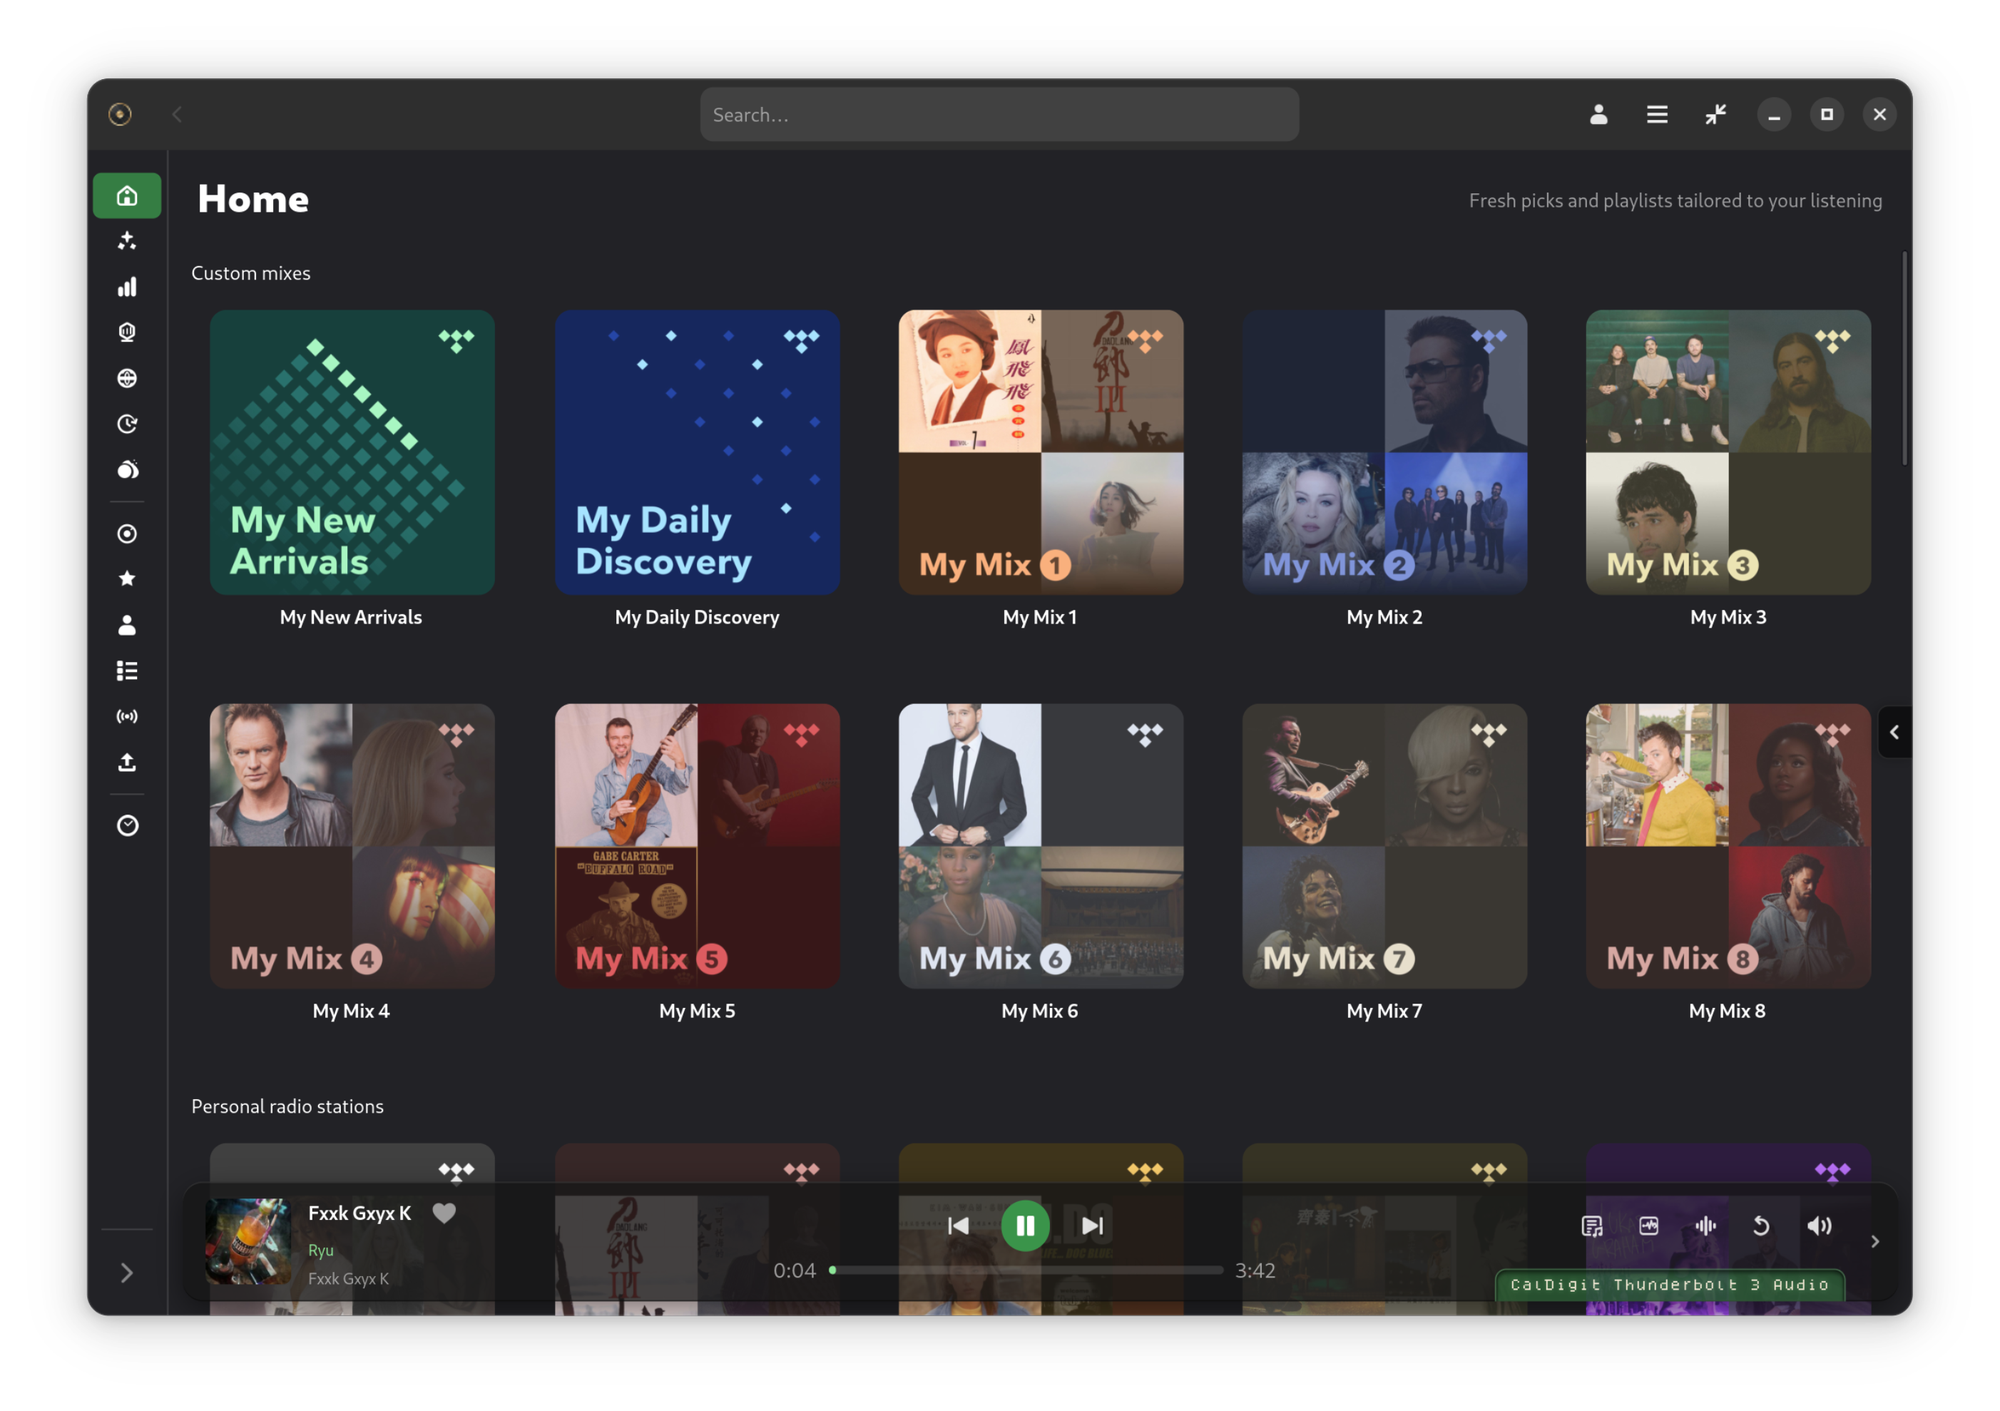
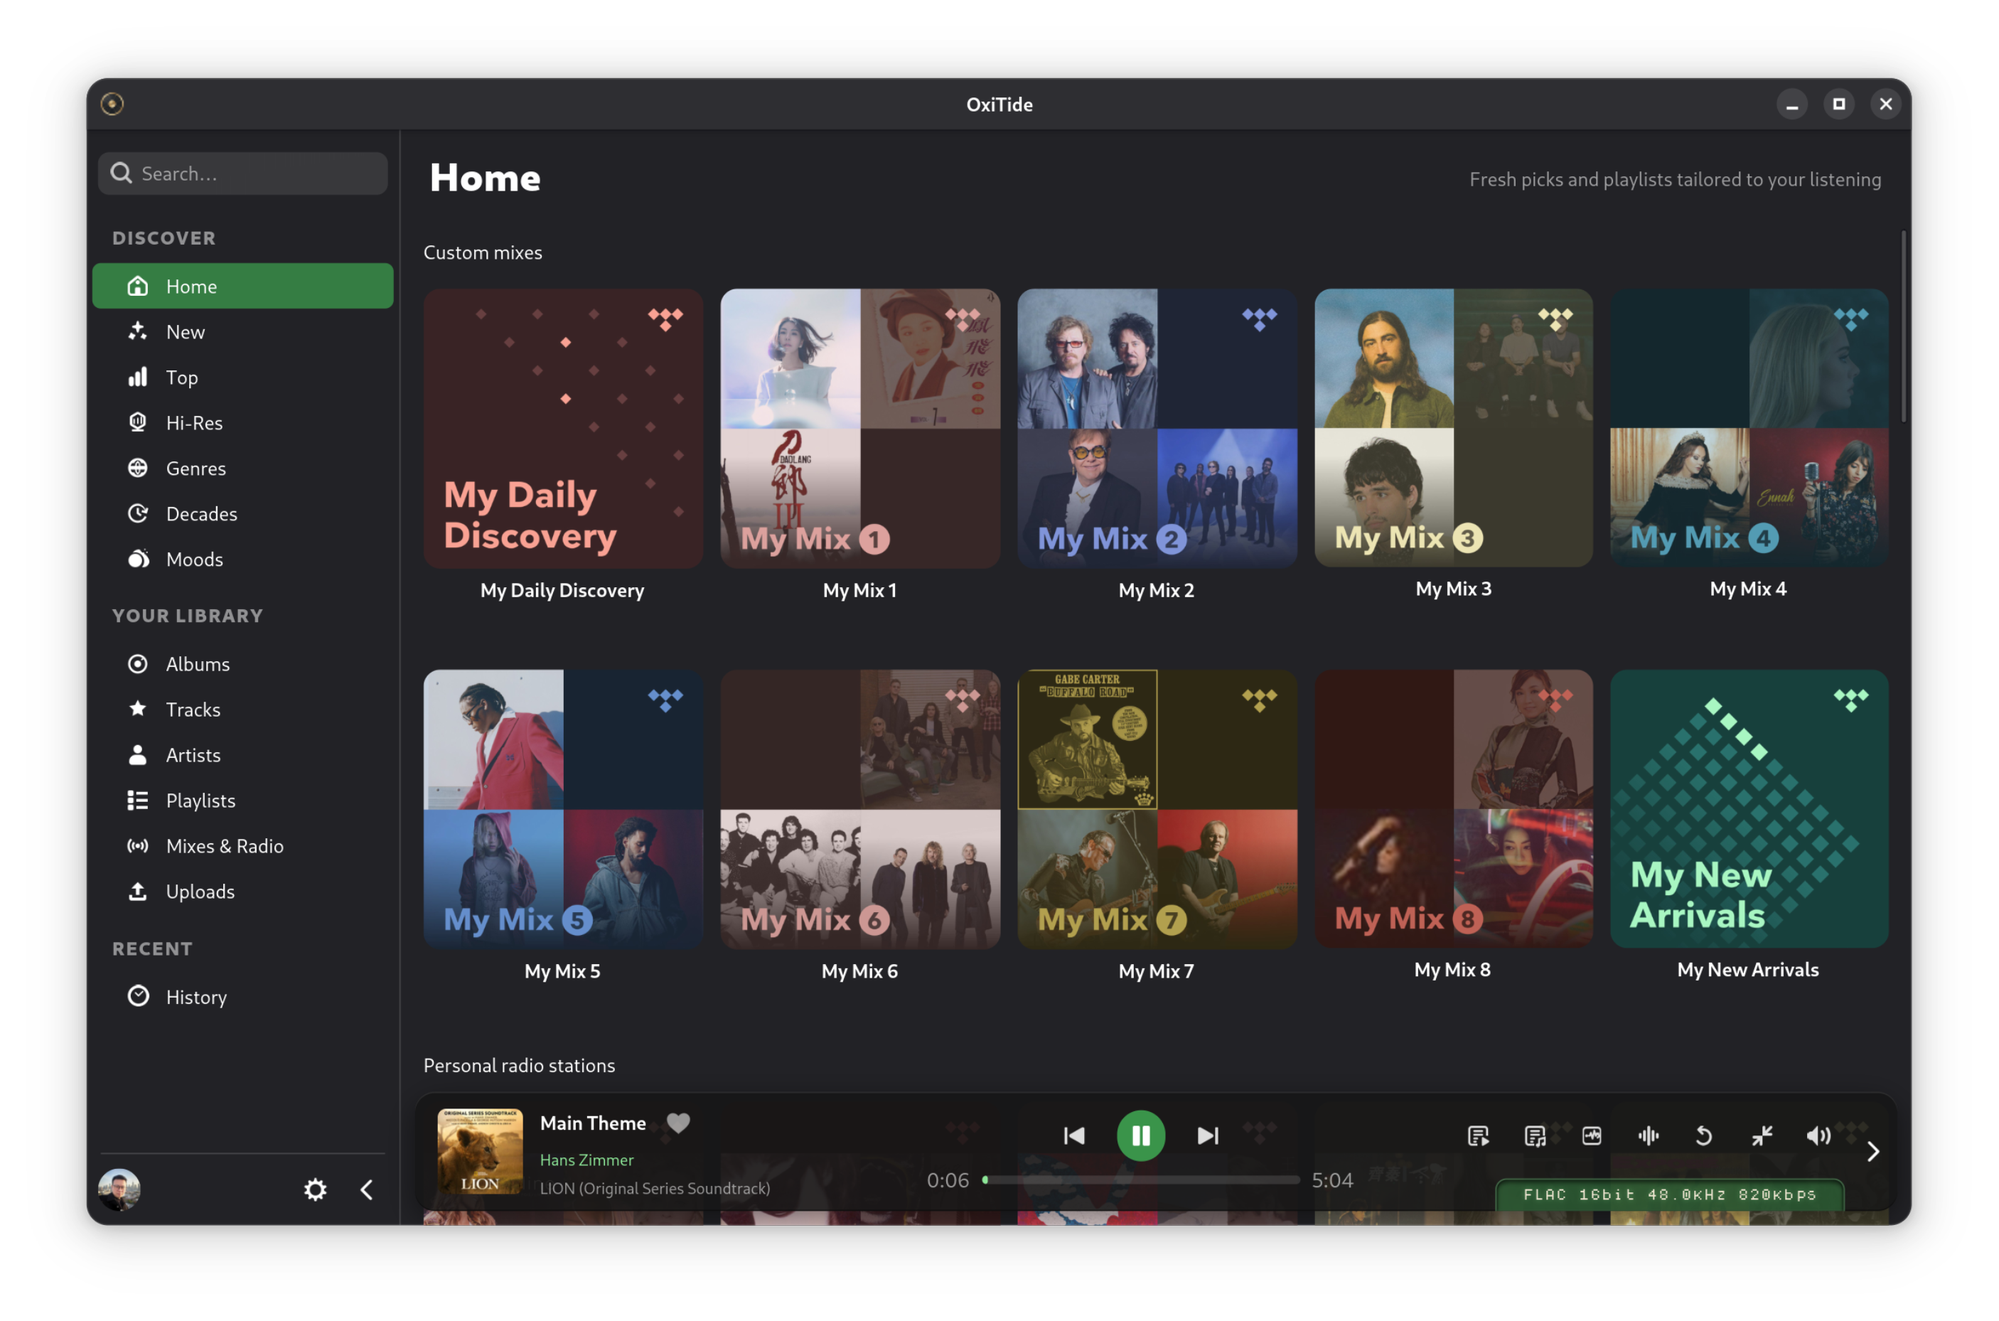
readme: Linux screenshot with the desktop's title bar

diff --git a/README.md b/README.md
@@ -32,9 +32,10 @@ Browsing and playback are the same on all three platforms; a few extras are
 still Linux-only. The [feature matrix and roadmap](ROADMAP.md) tracks what
 each build has today and what is coming next.
 
-**Linux** — GTK4 / libadwaita
+**Linux** — GTK4 / libadwaita. The window is decorated by your desktop, so the
+title bar matches the rest of KDE or GNOME.
 
-<img src="screenshots/linux-02-home.png" alt="OxiTide on Linux — Home, custom mixes in the GTK build" width="900" height="635">
+<img src="screenshots/linux-02-home.png" alt="OxiTide on Linux — Home, custom mixes in the GTK build" width="900" height="595">
 
 **macOS** — SwiftUI
 
